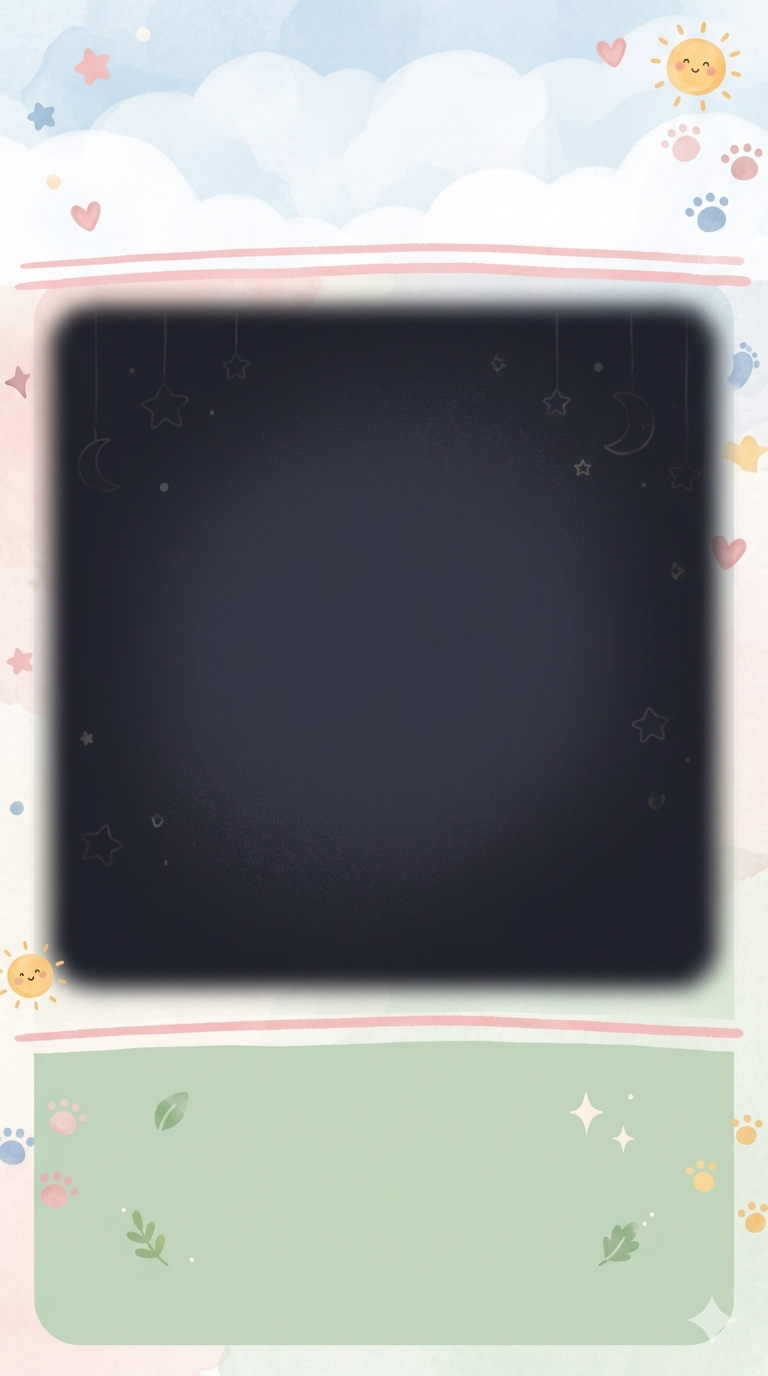
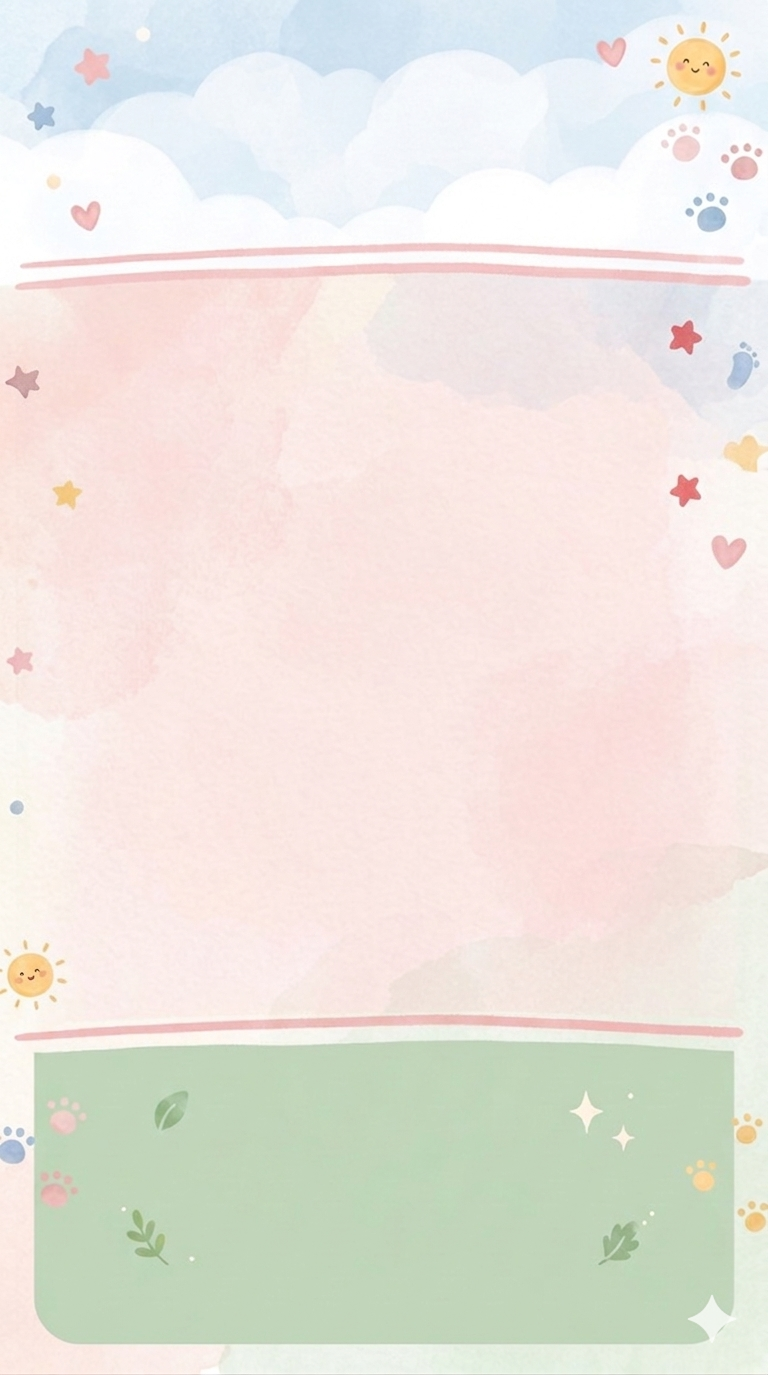
minor update

diff --git a/scripts/assemble_video.py b/scripts/assemble_video.py
@@ -304,25 +304,12 @@ def make_bg_frame(title: str, narration: str, out_path: Path):
     draw.rectangle([bx1-3, by1-3, bx2+3, by2+3],
                    outline=(70, 65, 60), width=6)
 
-    # ── 자막 패널 (반투명 박스 + 텍스트) ──────────────────────────
-    sub_panel_y = by2 + 40
+    # ── 자막 텍스트 (패널 배경 없이 텍스트만) ─────────────────────
+    sub_panel_y = by2 + 50
     sub_panel_h = TARGET_H - sub_panel_y - 30
 
-    # 반투명 패널
-    panel = Image.new("RGBA", (TARGET_W - 60, sub_panel_h), (30, 28, 25, 210))
-    img_rgba = img.convert("RGBA")
-    img_rgba.paste(panel, (30, sub_panel_y), panel)
-    img = img_rgba.convert("RGB")
-    draw = ImageDraw.Draw(img)
-
-    # 패널 테두리
-    draw.rectangle([30, sub_panel_y, TARGET_W-30,
-                    sub_panel_y + sub_panel_h],
-                   outline=(100, 95, 90), width=2)
-
-    # 자막 텍스트
     sub_font  = get_font(48)
-    sub_lines = wrap_text(draw, narration, sub_font, TARGET_W - 120)
+    sub_lines = wrap_text(draw, narration, sub_font, TARGET_W - 80)
     slh       = draw.textbbox((0,0), "가", font=sub_font)[3] + 18
     s_total   = slh * len(sub_lines)
     sy        = sub_panel_y + (sub_panel_h - s_total) // 2
@@ -343,10 +330,47 @@ def make_bg_frame(title: str, narration: str, out_path: Path):
 # 미디어 매칭 (GIF 우선)
 # ══════════════════════════════════════════════════════════════════
 def find_best_media(visual_tags: list, exclude_files: set = None,
-                    prefer_gif: bool = True):
+                    prefer_gif: bool = True, product_name: str = None):
+    """
+    태그 기반 미디어 매칭.
+
+    product_name 지정 시:
+      - visual_tag에 "제품이미지" 포함 → product_name 태그가 있는 파일만 우선 탐색
+      - 없으면 일반 태그 매칭으로 폴백
+    이 방식으로 안성탕면 영상 만들 때 불닭볶음면 이미지가 나오는 문제 방지.
+    """
     if exclude_files is None:
         exclude_files = set()
+
     library = load_library()
+
+    # ── 제품 이미지 우선 매칭 ────────────────────────────────────────
+    # visual_tag에 "제품이미지" 포함 + product_name 있을 때만 동작
+    is_product_seg = "제품이미지" in visual_tags
+    if is_product_seg and product_name:
+        product_pool = []
+        for item in library:
+            if item["file"] in exclude_files:
+                continue
+            if not Path(item["file"]).exists():
+                continue
+            tags = set(item["all_tags"])
+            # 제품명 태그가 정확히 매칭되는 파일만
+            if product_name in tags or product_name.replace(" ", "") in tags:
+                score = len(set(visual_tags) & tags) + 10  # 보너스 점수
+                product_pool.append((score, item))
+
+        if product_pool:
+            max_score   = max(s for s, _ in product_pool)
+            top_matches = [item for s, item in product_pool if s == max_score]
+            chosen      = random.choice(top_matches)
+            print(f"  🎯 [제품] {Path(chosen['file']).name}  (제품명 매칭: {product_name})")
+            return chosen
+        else:
+            print(f"  ⚠  '{product_name}' 제품 이미지 없음 → 일반 태그 매칭으로 폴백")
+            print(f"     import_custom.py --product '{product_name}' 로 등록하세요")
+
+    # ── 일반 태그 매칭 ────────────────────────────────────────────────
     scored_gif, scored_other = [], []
     for item in library:
         if item["file"] in exclude_files:
@@ -639,18 +663,11 @@ def _overlay_text_on_custom_bg(bg_path: str, title: str, narration: str,
     if not title_only and narration.strip():
         sub_font   = get_font(48)
         by2        = BOX_Y + BOX_H
-        sub_lines  = wrap_text(draw, narration, sub_font, TARGET_W - 100)
+        sub_lines  = wrap_text(draw, narration, sub_font, TARGET_W - 80)
         slh        = draw.textbbox((0,0), "가", font=sub_font)[3] + 16
         sub_total  = slh * len(sub_lines)
-        sub_panel_y = by2 + 40
+        sub_panel_y = by2 + 50
         sub_panel_h = TARGET_H - sub_panel_y - 30
-
-        # 반투명 자막 패널
-        panel     = Image.new("RGBA", (TARGET_W - 60, sub_panel_h), (0, 0, 0, 170))
-        bg_rgba   = bg.convert("RGBA")
-        bg_rgba.paste(panel, (30, sub_panel_y), panel)
-        bg = bg_rgba.convert("RGB")
-        draw = ImageDraw.Draw(bg)
 
         sy = sub_panel_y + (sub_panel_h - sub_total) // 2
         for i, line in enumerate(sub_lines):
@@ -735,10 +752,13 @@ def assemble(script_path=None):
     for d in [AUDIO_DIR, OUTPUT_DIR, BGM_DIR, TMP_DIR]:
         d.mkdir(exist_ok=True)
 
-    title    = script.get("title", "WISSLIST")
-    segments = script["segments"]
+    title        = script.get("title", "WISSLIST")
+    product_name = script.get("product_name", "")   # generate_script.py가 자동 기입
+    segments     = script["segments"]
 
     print(f"\n🎬 조립 시작: {title}")
+    if product_name:
+        print(f"   제품명: {product_name}  (제품 이미지 우선 매칭 활성)")
     print("=" * 55)
 
     # ── 1. TTS ────────────────────────────────────────────────────
@@ -760,7 +780,9 @@ def assemble(script_path=None):
         narr = seg["narration"]
         print(f"\n  Seg {i+1} | {dur:.2f}초 | {tags}")
 
-        media      = find_best_media(tags, exclude_files=used, prefer_gif=True)
+        media      = find_best_media(tags, exclude_files=used,
+                                     prefer_gif=True,
+                                     product_name=product_name)
         media_file = None
         if media and Path(media["file"]).exists():
             used.add(media["file"])
